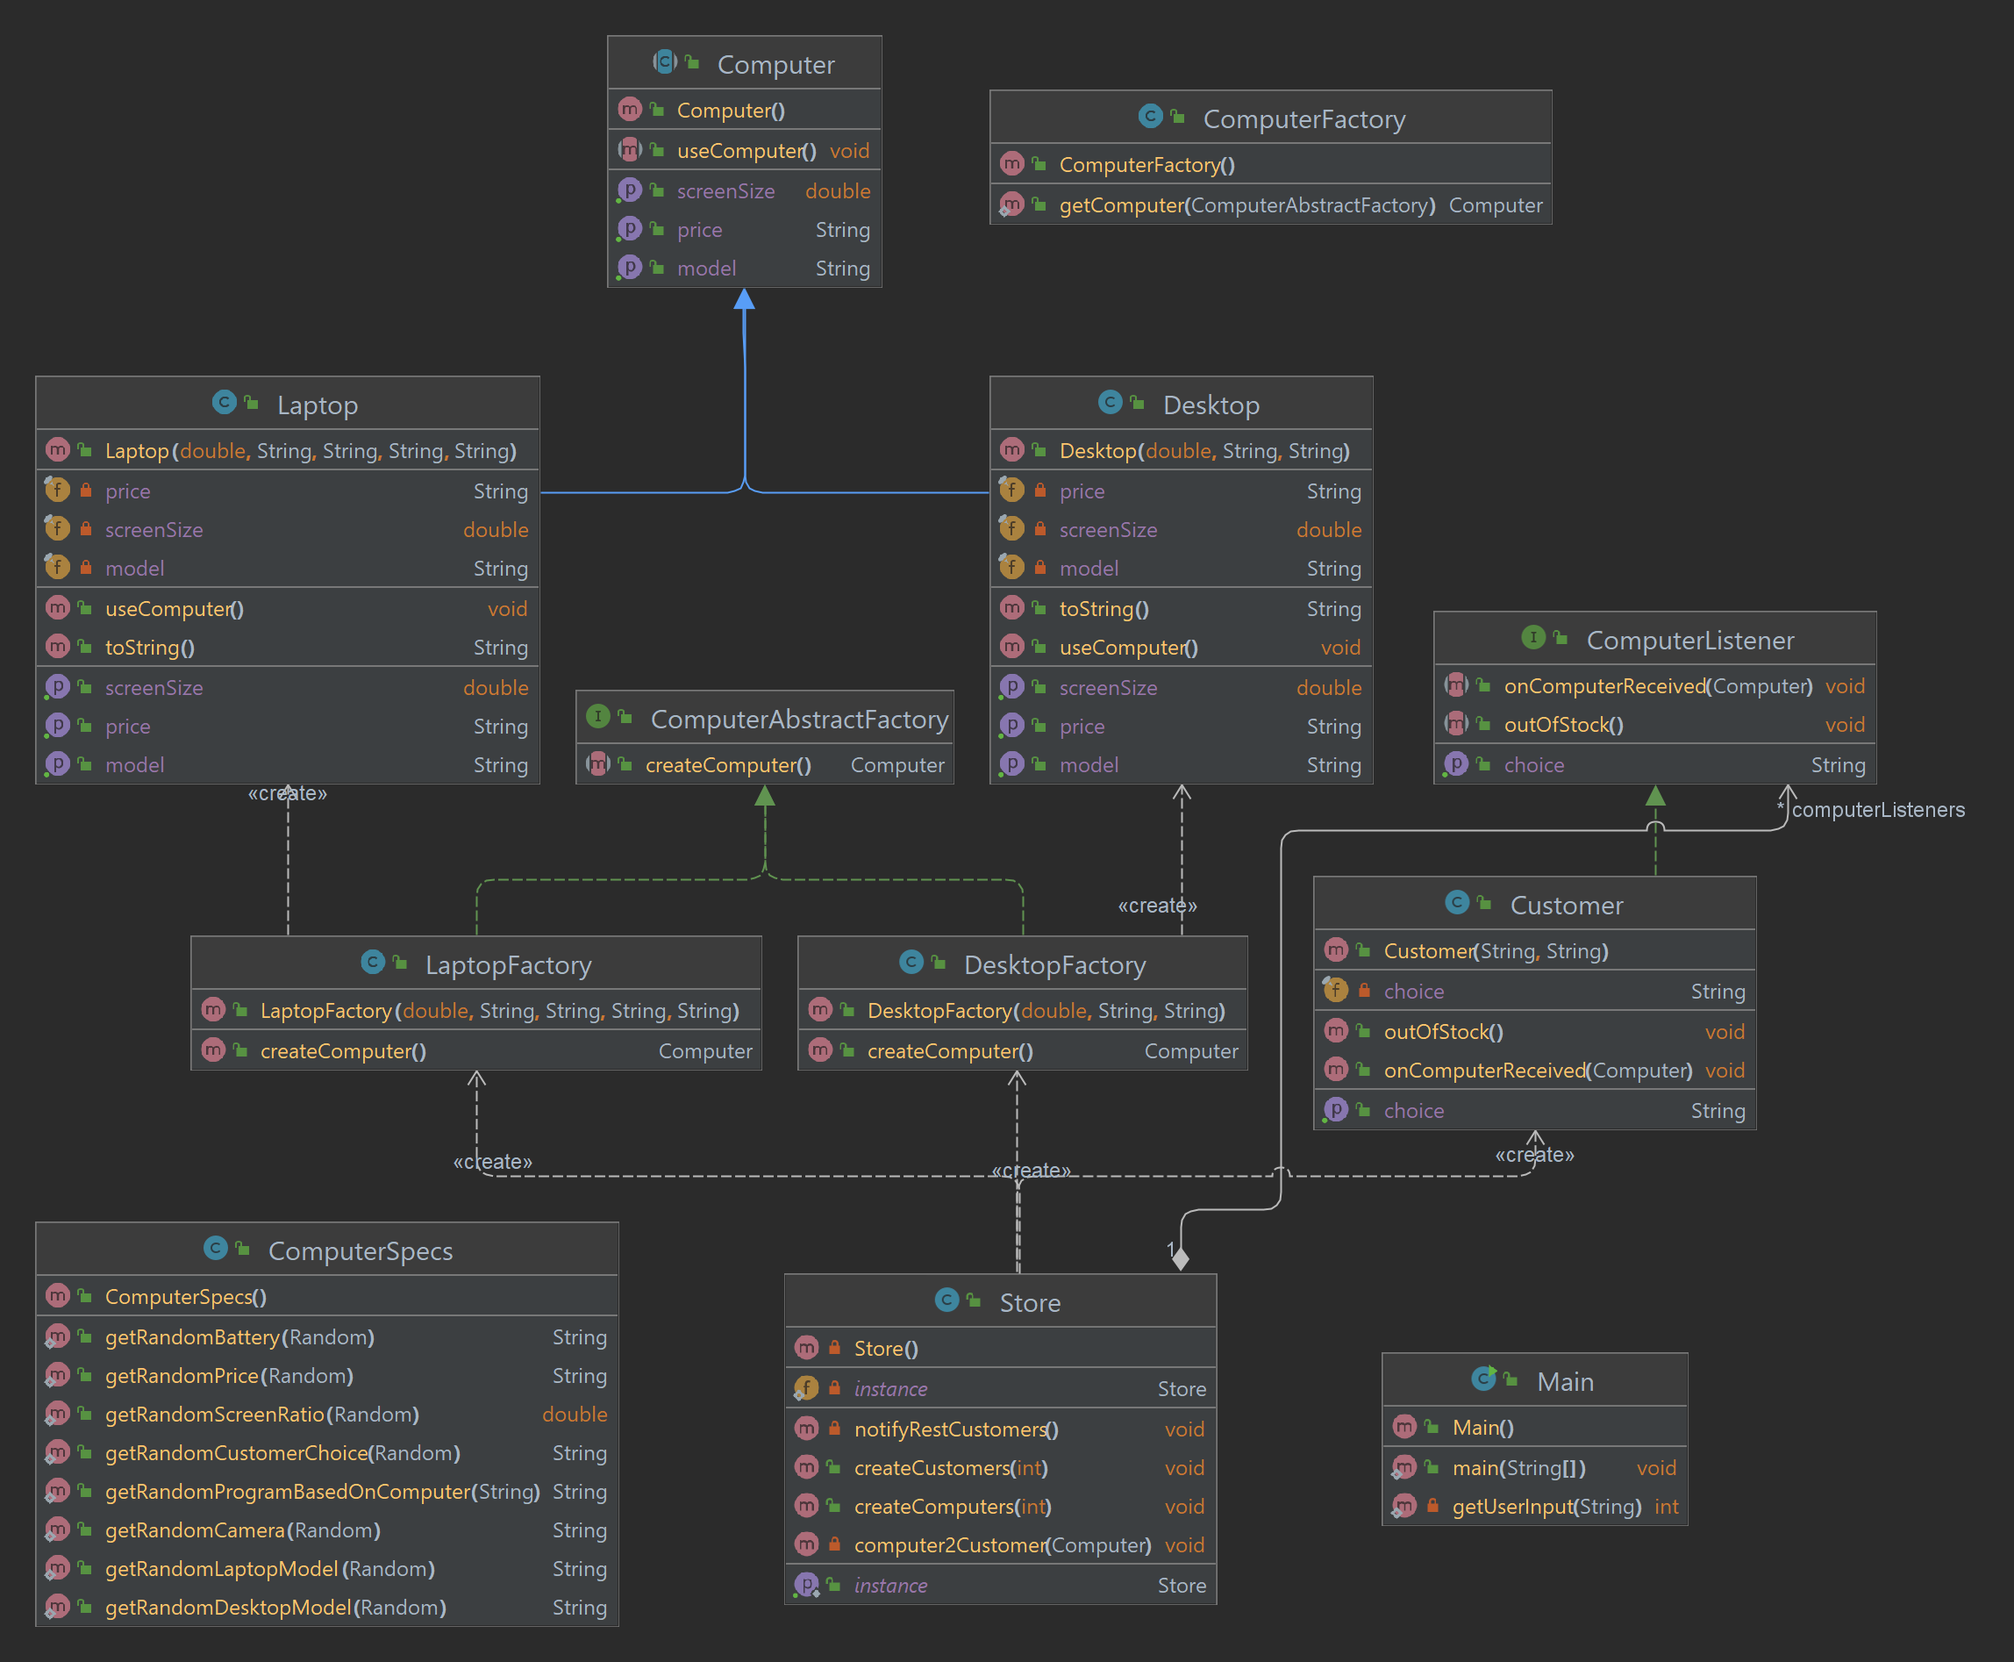
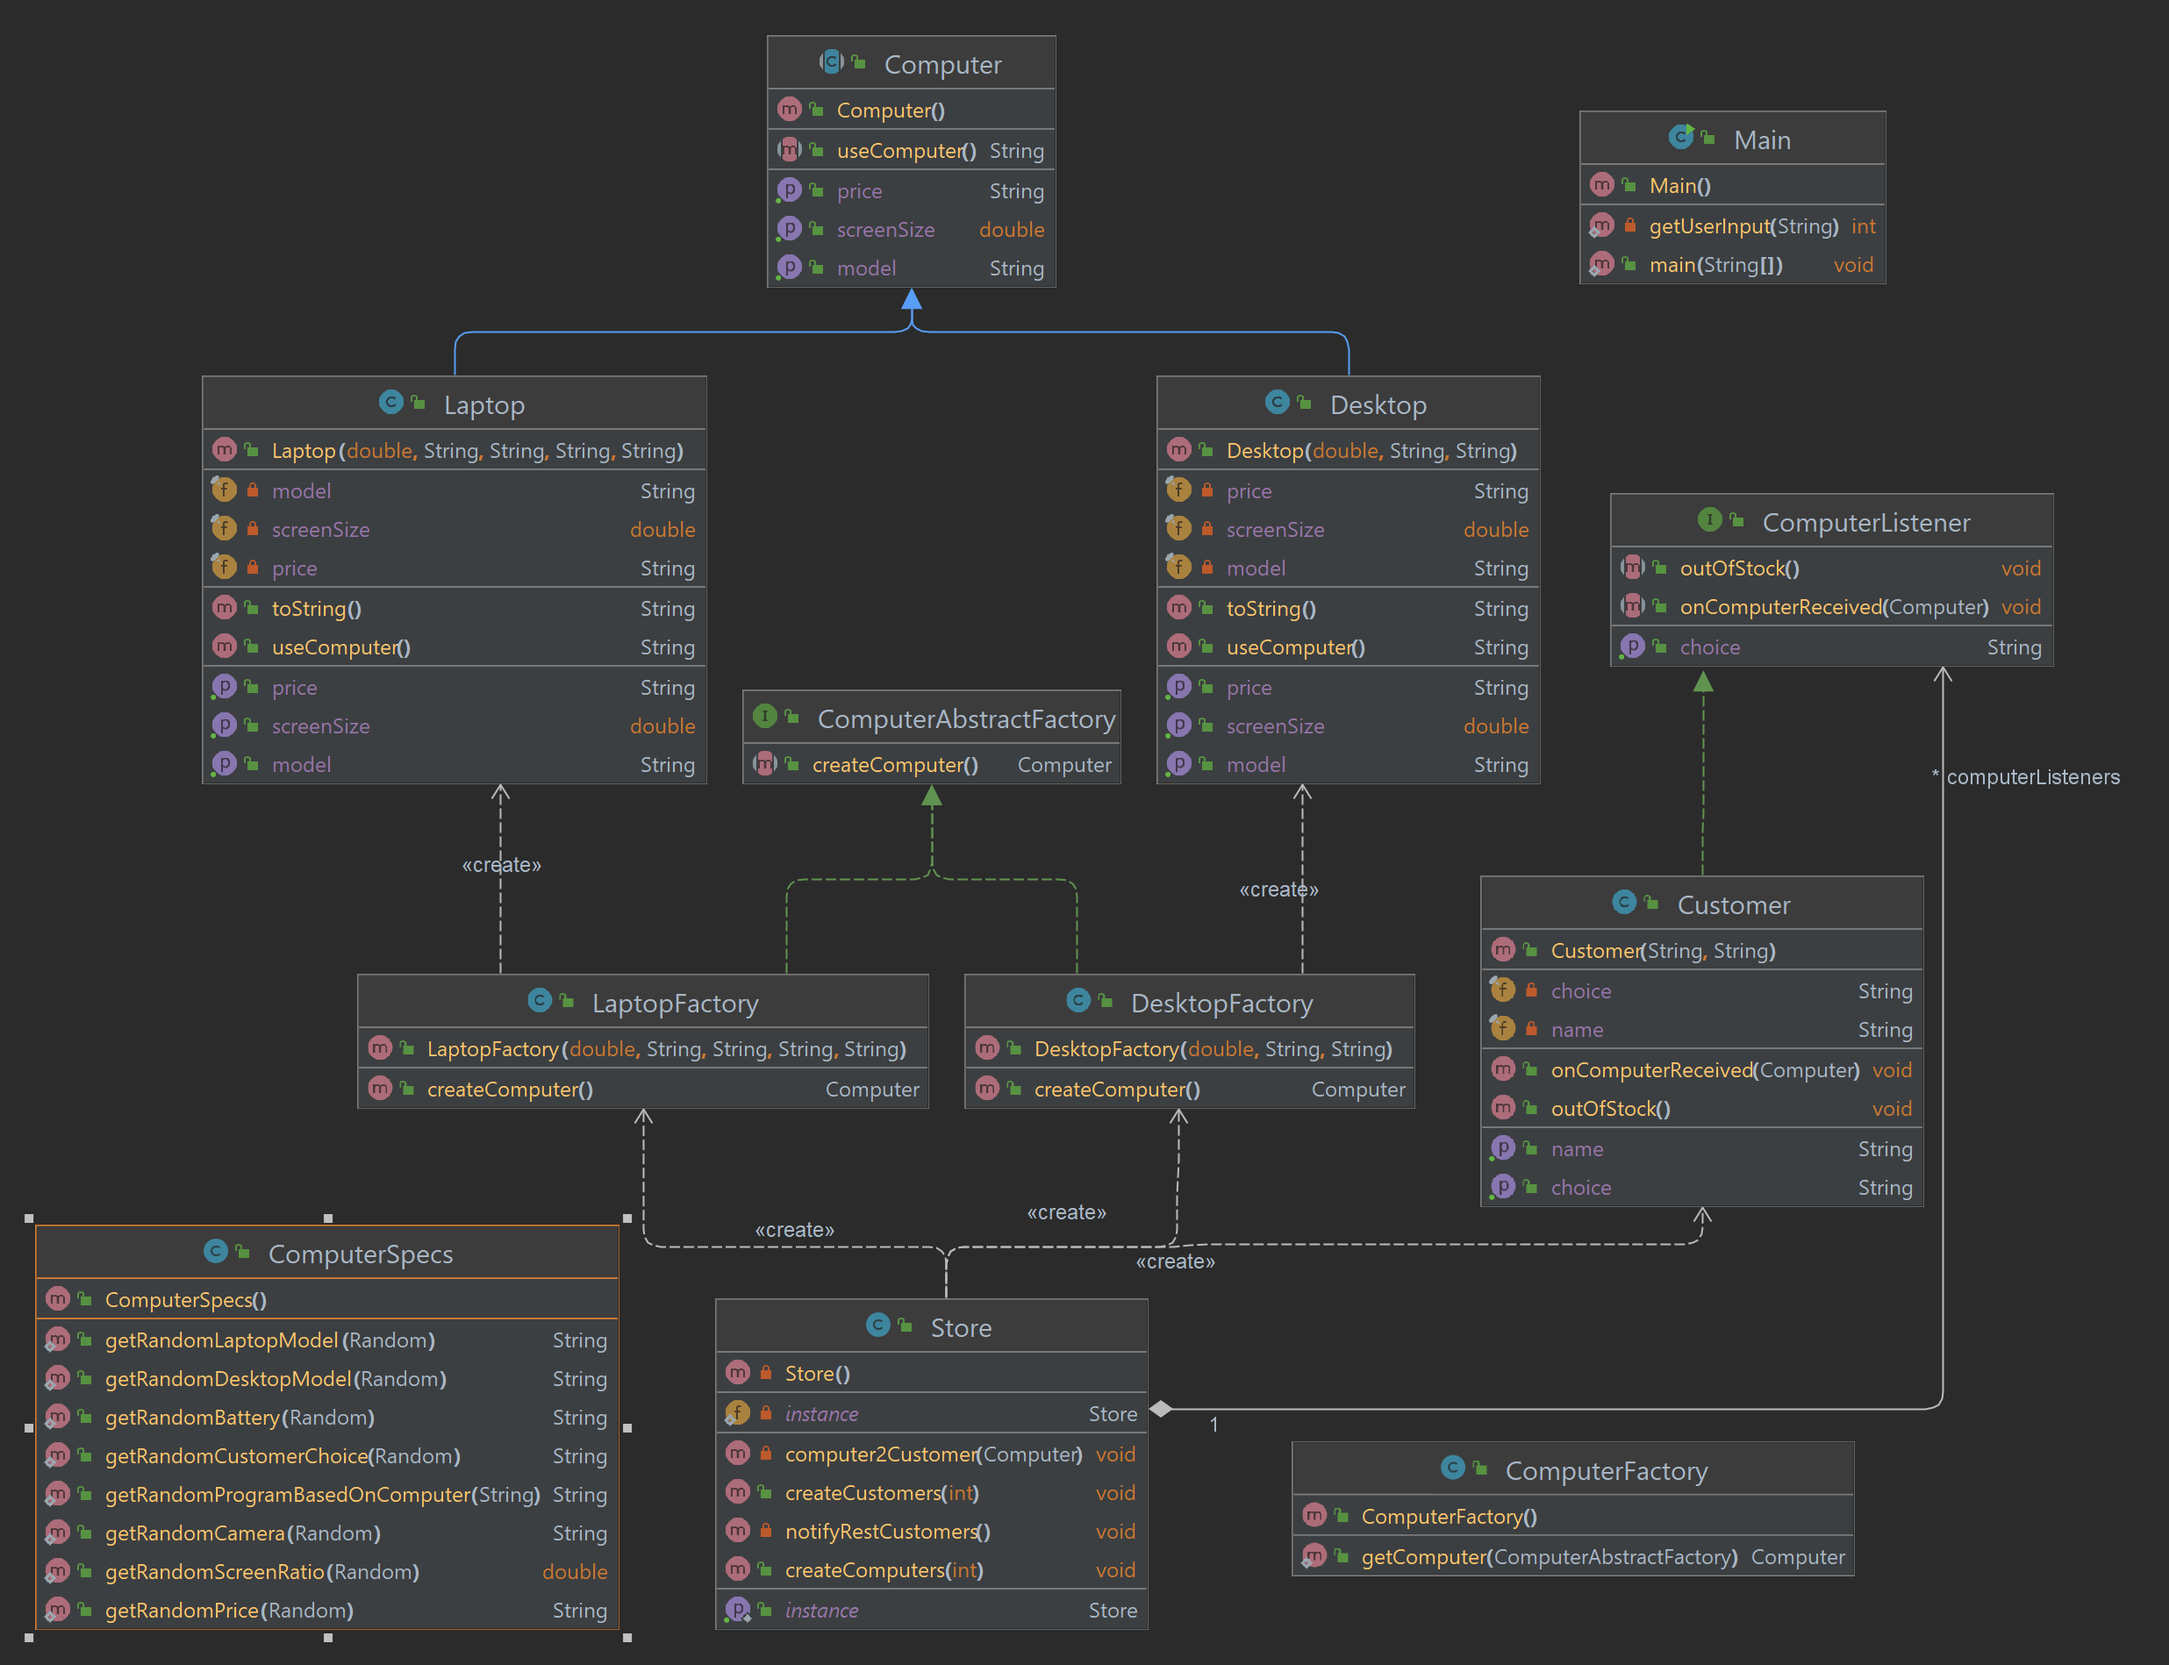
Small corrections

diff --git a/src/com/unipi/msc/model/Laptop.java b/src/com/unipi/msc/model/Laptop.java
@@ -1,5 +1,6 @@
 package com.unipi.msc.model;
 
+import com.unipi.msc.constants.ComputerSpecs;
 import com.unipi.msc.factory.Computer;
 
 public class Laptop extends Computer {
@@ -8,7 +9,6 @@ public class Laptop extends Computer {
     private final String price;
     private final String battery;
     private final String camera;
-
     public Laptop(double screenSize, String model, String price, String battery, String camera) {
         this.screenSize = screenSize;
         this.model = model;
@@ -16,38 +16,22 @@ public class Laptop extends Computer {
         this.battery = battery;
         this.camera = camera;
     }
-
-
     @Override
     public double getScreenSize() {
         return screenSize;
     }
-
     @Override
     public String getPrice() {
         return price;
     }
-
     @Override
     public String getModel() {
         return model;
     }
-
     @Override
-    public void useComputer() {
-        System.out.println("User just took a picture");
+    public String useComputer() {
+        return " opens -> " + ComputerSpecs.getRandomProgramBasedOnComputer(getClass().getSimpleName());
     }
-
-//    @Override
-//    public String toString() {
-//        return "Laptop{" +
-//                "screenSize=" + screenSize +
-//                ", model='" + model + '\'' +
-//                ", price='" + price + '\'' +
-//                ", battery='" + battery + '\'' +
-//                ", camera='" + camera + '\'' +
-//                '}';
-//    }
     @Override
     public String toString() {
         return "Laptop: " +model+ "("+
@@ -56,7 +40,7 @@ public class Laptop extends Computer {
                 ", price='" + price + '\'' +
                 ", battery='" + battery + '\'' +
                 ", camera='" + camera + '\'' +
-                ")";
+                ")\n" +
+                useComputer();
     }
-
 }

diff --git a/src/com/unipi/msc/model/Store.java b/src/com/unipi/msc/model/Store.java
@@ -23,10 +23,9 @@ public class Store {
         return instance;
     }
     public void createComputers(int computerCount){
-        int random = r.nextInt(0,computerCount+1);
         for (int i=0; i<computerCount; i++){
             Computer c;
-            if (i<=random){
+            if (r.nextBoolean()){
                 c = ComputerFactory.getComputer(
                         new DesktopFactory(ComputerSpecs.getRandomScreenRatio(r),
                                 ComputerSpecs.getRandomDesktopModel(r),
@@ -43,17 +42,18 @@ public class Store {
         }
         notifyRestCustomers();
     }
-
     private void notifyRestCustomers() {
         for (ComputerListener c:computerListeners) {
             c.outOfStock();
         }
     }
-
+    public void addListener(ComputerListener listener){
+        computerListeners.add(listener);
+    }
     public void createCustomers(int customersCount){
         for (int i=0; i<customersCount; i++){
             Customer c = new Customer("Customer "+i,ComputerSpecs.getRandomCustomerChoice(r));
-            computerListeners.add(c);
+            addListener(c);
         }
     }
     private void computer2Customer(Computer computer){

diff --git a/src/com/unipi/msc/model/Customer.java b/src/com/unipi/msc/model/Customer.java
@@ -9,26 +9,23 @@ import java.util.Random;
 public class Customer implements ComputerListener {
     private final String name;
     private final String choice;
-
-
+    public String getName() {
+        return "| "+name+" |";
+    }
     public Customer(String name, String choice) {
         this.name = name;
         this.choice = choice;
     }
-
     @Override
     public void onComputerReceived(Computer c) {
         System.out.println(" - - - - - - - - - - - - - - -");
-        System.out.println(name+" received "+c);
-        System.out.println(" opens ->" +ComputerSpecs.getRandomProgramBasedOnComputer(choice));
+        System.out.println(getName()+" received "+c);
     }
-
     @Override
     public void outOfStock() {
         System.out.println(" - - - - - - - - - - - - - - -");
-        System.out.println(name+" didn't receive his "+choice);
+        System.out.println(getName()+" didn't receive his "+choice);
     }
-
     @Override
     public String getChoice() {
         return choice;

diff --git a/src/com/unipi/msc/model/Desktop.java b/src/com/unipi/msc/model/Desktop.java
@@ -1,5 +1,6 @@
 package com.unipi.msc.model;
 
+import com.unipi.msc.constants.ComputerSpecs;
 import com.unipi.msc.factory.Computer;
 
 public class Desktop extends Computer {
@@ -29,16 +30,15 @@ public class Desktop extends Computer {
     }
 
     @Override
-    public void useComputer() {
-        System.out.println("User just run a program");
-    }
+    public String useComputer() {return " opens -> " + ComputerSpecs.getRandomProgramBasedOnComputer(getClass().getSimpleName());}
 
     @Override
     public String toString() {
         return "Desktop: " +model+ "("+
                     "screenSize=" + screenSize +
-                    ", model='" + model + '\'' +
+                    ", model='" + model +
                     ", price='" + price +
-                ")";
+                ")\n" +
+                useComputer();
     }
 }

diff --git a/src/com/unipi/msc/constants/ComputerSpecs.java b/src/com/unipi/msc/constants/ComputerSpecs.java
@@ -44,11 +44,7 @@ public class ComputerSpecs {
         return r.nextInt(5, 80)/10.+" MP";
     }
     public static String getRandomCustomerChoice(Random r){
-        return switch (r.nextInt(0,2)){
-            case 0 -> Laptop.class.getSimpleName();
-            case 1 -> Desktop.class.getSimpleName();
-            default -> "";
-        };
+        return r.nextBoolean() ? Laptop.class.getSimpleName() : Desktop.class.getSimpleName();
     }
     public static String getRandomProgramBasedOnComputer(@NotNull String typeOfComputer){
         Random r = new Random();

diff --git a/src/com/unipi/msc/Main.java b/src/com/unipi/msc/Main.java
@@ -18,10 +18,8 @@ public class Main {
     }
 
     private static int getUserInput(String msg){
-
         Scanner mySca = new Scanner(System.in);
         int result;
-
         do {
             System.out.println(msg);
             while (!mySca.hasNextInt()) {
@@ -29,9 +27,7 @@ public class Main {
                 mySca.next();
             }
             result = mySca.nextInt();
-
         }while (result<=2);
-
         return result;
     }
 }

diff --git a/src/com/unipi/msc/factory/Computer.java b/src/com/unipi/msc/factory/Computer.java
@@ -4,5 +4,5 @@ public abstract class Computer {
     public abstract double getScreenSize();
     public abstract String getPrice();
     public abstract String getModel();
-    public abstract void useComputer();
+    public abstract String useComputer();
 }
